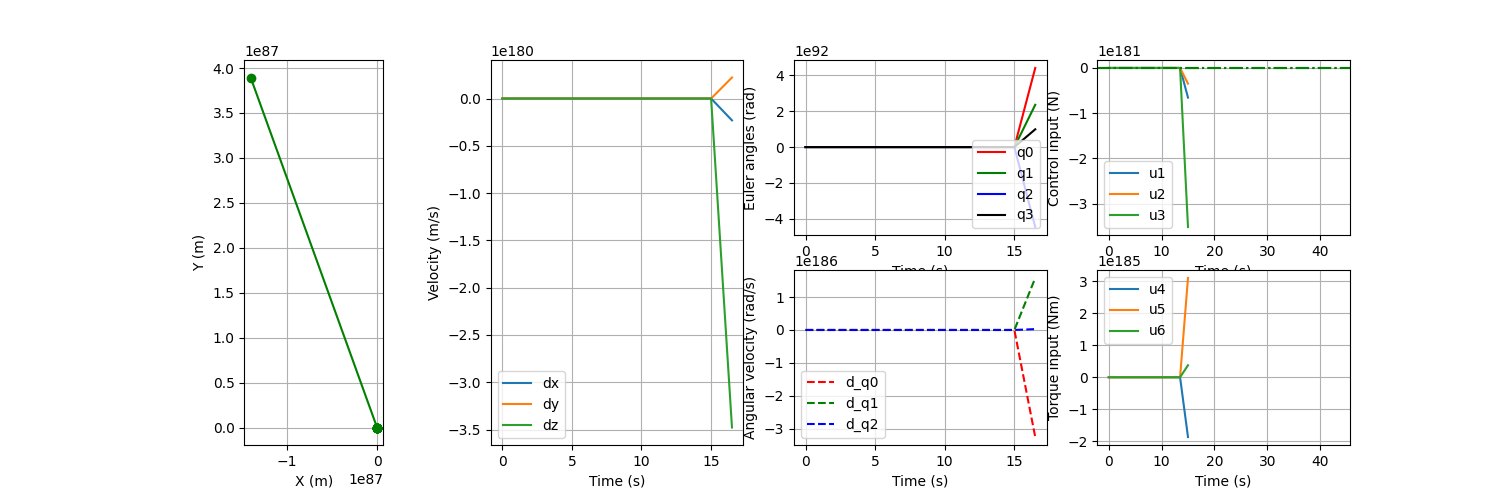
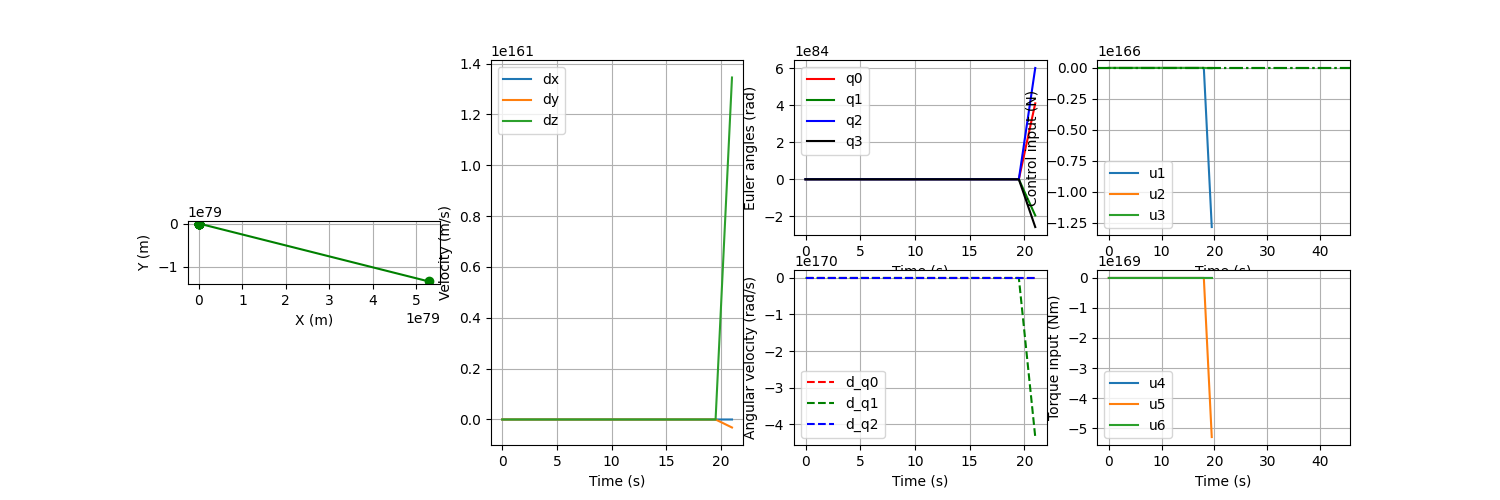
push

diff --git a/stl_mapping/Control/mpc_node.py b/stl_mapping/Control/mpc_node.py
@@ -342,13 +342,13 @@ class MPCNode(Node):
         x0 = np.array([self.vehicle_local_position[0],
                            self.vehicle_local_position[1],
                            self.vehicle_local_position[2],
-                           self.vehicle_local_velocity[0],
-                           self.vehicle_local_velocity[1],
-                           self.vehicle_local_velocity[2],
                            self.vehicle_attitude[0],
                            self.vehicle_attitude[1],
                            self.vehicle_attitude[2],
                            self.vehicle_attitude[3],
+                           self.vehicle_local_velocity[0],
+                           self.vehicle_local_velocity[1],
+                           self.vehicle_local_velocity[2],
                            self.vehicle_angular_velocity[0],
                            self.vehicle_angular_velocity[1],
                            self.vehicle_angular_velocity[2]]).reshape(13, 1)
@@ -362,13 +362,13 @@ class MPCNode(Node):
         x0 = np.array([self.vehicle_local_position[0],
                            self.vehicle_local_position[1],
                            self.vehicle_local_position[2],
-                           self.vehicle_local_velocity[0],
-                           self.vehicle_local_velocity[1],
-                           self.vehicle_local_velocity[2],
                            self.vehicle_attitude[0],
                            self.vehicle_attitude[1],
                            self.vehicle_attitude[2],
                            self.vehicle_attitude[3],
+                           self.vehicle_local_velocity[0],
+                           self.vehicle_local_velocity[1],
+                           self.vehicle_local_velocity[2],
                            self.vehicle_angular_velocity[0],
                            self.vehicle_angular_velocity[1],
                            self.vehicle_angular_velocity[2]]).reshape(13, 1)
@@ -398,15 +398,7 @@ class MPCNode(Node):
 
         x_ref_u = np.tile(u_ref if self.offset_free else np.zeros((6, 1)), (1, x_ref.shape[1]))
 
-        # x_ref contains reference in order p q dp dq, convert to order p, dp, q, dq
-        x_ref = np.concatenate((
-            x_ref[0:3, :],      # Position [ENU]
-            x_ref[7:10, :],     # Linear velocity [ENU]
-            x_ref[3:7, :],      # Quaternion [FLU in ENU]
-            x_ref[10:13, :],    # Angular velocity [FLU]
-            x_ref_u
-        ))
-        self.get_logger().info(f"euler: {quat_to_euler_np(x_ref[6:10, 0], order='zyx')}")
+        self.get_logger().info(f"euler: {quat_to_euler_np(x_ref[3:7, 0], order='zyx')}")
         self.get_logger().info(f"x_ref: {x_ref[:, 0].flatten()}")
         # self.get_logger().info(f"x0: {x0.flatten()}")
 
@@ -426,21 +418,21 @@ class MPCNode(Node):
         setpoint_path_msg = Path()
         for idx in range(x_ref.shape[1]):
             setpoint = x_ref[:, idx]
-            setpoint_pose_msg = self.vector2PoseMsg('map', setpoint[0:3], setpoint[6:10])
+            setpoint_pose_msg = self.vector2PoseMsg('map', setpoint[0:3], setpoint[3:7])
             setpoint_path_msg.header = setpoint_pose_msg.header
             setpoint_path_msg.poses.append(setpoint_pose_msg)
         self.reference_path_pub.publish(setpoint_path_msg)
 
 
         self.reference_point_pub.publish(
-            self.vector2PoseMsg('map', x_ref[0:3, 0], x_ref[6:10, 0])
+            self.vector2PoseMsg('map', x_ref[0:3, 0], x_ref[3:7, 0])
         )
 
         x_pred = x_pred.T
         predicted_path_msg = Path()
         for idx in range(x_pred.shape[1]):
             predicted_state = x_pred[:, idx]
-            predicted_pose_msg = self.vector2PoseMsg('map', predicted_state[0:3], predicted_state[6:10])
+            predicted_pose_msg = self.vector2PoseMsg('map', predicted_state[0:3], predicted_state[3:7])
             predicted_path_msg.header = predicted_pose_msg.header
             predicted_path_msg.poses.append(predicted_pose_msg)
         self.predicted_path_pub.publish(predicted_path_msg)

diff --git a/stl_mapping/Control/controllers/mpc_wrench.py b/stl_mapping/Control/controllers/mpc_wrench.py
@@ -49,8 +49,8 @@ class MpcWrench():
         self.Nu = 30                # Prediction horizon, inputs
         self.Q = np.diag([          # State weighting matrix
             1e0, 1e0, 1e0,
-            3e1, 3e1, 3e1, 
-            1e2, 
+            1e2,
+            3e1, 3e1, 3e1,  
             3e1, 3e1, 3e1])             
         self.R = 0.1*np.diag([          # State weighting matrix
             1e0, 1e0, 1e0,
@@ -60,7 +60,7 @@ class MpcWrench():
         # Bounds
         self.lbx = np.array([0+0.25, -1.58+0.25, -0.5, -0.5, -3])
         self.ubx = np.array([4.1-0.25, 1.74-0.25, 0.5, 0.5, 3])
-        self.idxbx = np.array([0, 1, 3, 4, 12]) # Indexes of states that are bounded
+        self.idxbx = np.array([0, 1, 7, 8, 12]) # Indexes of states that are bounded
 
         # Weight on slack varibles
         self.W_slack = np.array([1e4]*len(self.idxbx))
@@ -115,11 +115,11 @@ class MpcWrench():
         ocp.cost.W_e = block_diag(self.P)
 
         # quat_error = ca.fabs(model.x[6:10].T @ x_ref[6:10])
-        quat_error = (model.x[6:10].T @ x_ref[6:10])**2
+        quat_error = (model.x[3:7].T @ x_ref[3:7])**2
         # quat_error = ca.fmax(0, ca.fmin(1, quat_error))
         ocp.model.cost_y_expr = ca.vertcat(
             model.x[0:3] - x_ref[0:3],   # Position error
-            model.x[3:6] - x_ref[3:6],   # Velocity error
+            model.x[7:10] - x_ref[7:10],   # Velocity error
             quat_error,
             model.x[10:13] - x_ref[10:13],  # Angular velocity error
             model.u - u_ref, # Control error
@@ -127,14 +127,14 @@ class MpcWrench():
         # Terminal cost 
         ocp.model.cost_y_expr_e = ca.vertcat(
             model.x[0:3] - x_ref[0:3],
-            model.x[3:6] - x_ref[3:6],
+            model.x[3:7] - x_ref[3:7],
             quat_error,
             model.x[10:13] - x_ref[10:13],
         )
         ocp.cost.yref = np.zeros(ocp.model.cost_y_expr.shape[0])  # Reference for full cost function
-        ocp.cost.yref[6] = 1    # Quaternion reference
+        ocp.cost.yref[3] = 1    # Quaternion reference
         ocp.cost.yref_e = np.zeros(ocp.model.cost_y_expr_e.shape[0])  # Terminal reference
-        ocp.cost.yref_e[6] = 1  # Quaternion reference
+        ocp.cost.yref_e[3] = 1  # Quaternion reference
 
         # Constraints
         ocp.constraints.lbu = model.u_min
@@ -147,7 +147,7 @@ class MpcWrench():
         ocp.constraints.idxsbx = np.arange(len(self.idxbx)) # All states are slack variables
 
         ocp.constraints.x0 = np.zeros(nx)  # Initial state
-        ocp.constraints.x0[6] = 1  # Initial quaternion
+        ocp.constraints.x0[3] = 1  # Initial quaternion
 
         # Set up the constraints for the other agents
         # ocp.constraints.lh = np.full(0, -1e9)   # lower bounds on con_h_expr

diff --git a/stl_mapping/Planning/main.py b/stl_mapping/Planning/main.py
@@ -169,16 +169,19 @@ def u_fbl(x, u):
     Returns:
         u_fbl: control input for the space robot in ENU body frame
     '''
-    R_enu_to_ned = R.from_quat(np.array([0, 1, 0, 0]), scalar_first=True)
-    R_flu_to_frd = R.from_quat(np.array([0, 1, 0, 0]), scalar_first=True)
+    R_enu_to_ned = R.from_quat(np.array([0, 1, 0, 0]), scalar_first=True) # 180 degrees rotation around x
+    R_flu_to_frd = R.from_matrix(np.array([[0, 1, 0], [1, 0, 0], [0, 0, -1]])) # 90 degrees rotation around z
 
     #! Convert [p: ENU, q:FLU->ENU, v:ENU, w:FLU] to [p: NED, q:FRD->NED, v:FRD, w:FRD]
-    from Utilities.rotations import q_enu_to_q_ned
+    from Utilities.rotations import q_enu_to_q_ned, quat_mult
     p, q, v, w = x[:3], x[3:7], x[7:10], x[10:13]
     p_ned = np.array([p[1], p[0], -p[2]])
-    q_ned = q_enu_to_q_ned(q)
+    q_R = R.from_quat(q, scalar_first=True)
+    q_ned = R_enu_to_ned * q_R * R_flu_to_frd
+    q_ned = q_ned.as_quat(scalar_first=True)  # convert to quaternion
+    print(f"p_ned: {p_ned}, q_ned: {q_ned}")
     v_ned = np.array([v[1], v[0], -v[2]])
-    w_frd = np.array([w[1], w[0], -w[2]])
+    w_frd = np.array([w[0], -w[1], -w[2]])
     x_ned = np.concatenate((p_ned, q_ned, v_ned, w_frd))
 
     fx_sp = sp_robot_nl.calculate_fx(x)

diff --git a/stl_mapping/Control/models/atmos_wrench.py b/stl_mapping/Control/models/atmos_wrench.py
@@ -70,10 +70,10 @@ def atmos_model_wrench():
 
     # states
     p = ca.MX.sym('p', 3)
-    v = ca.MX.sym('v', 3)
     q = ca.MX.sym('q', 4)
+    v = ca.MX.sym('v', 3)
     w = ca.MX.sym('w', 3)
-    x = ca.vertcat(p, v, q, w)
+    x = ca.vertcat(p, q, v, w)
 
     # controls
     u = ca.MX.sym('u', 6)
@@ -99,11 +99,11 @@ def atmos_model_wrench():
     T = ca.vertcat(u[3], u[4], u[5])
 
     pdot = v
-    vdot = mass_inv * ca.mtimes(rotMat, F) + fd * mass_inv
     qdot = quat_derivative(q, w)
+    vdot = mass_inv * ca.mtimes(rotMat, F) + fd * mass_inv
     wdot = ca.mtimes(inertia_inv, (T + td - ca.mtimes(w_cross, ca.mtimes(inertia, w))))
 
-    xdot = ca.vertcat(pdot, vdot, qdot, wdot)
+    xdot = ca.vertcat(pdot, qdot, vdot, wdot)
 
     # Assign dynamics and controls
     model.f_expl_expr = xdot

diff --git a/stl_mapping/Control/estimators/ekf_wrench_estimator.py b/stl_mapping/Control/estimators/ekf_wrench_estimator.py
@@ -72,9 +72,9 @@ class EKFWrenchEstimator:
         self.P = (np.eye(12) - K @ H) @ self.P
 
     def step(self, x_meas, F_cmd, T_cmd):
-        v_meas = x_meas[3:6]
+        q_meas = x_meas[3:7]
+        v_meas = x_meas[7:10]
         w_meas = x_meas[10:13]
-        q_meas = x_meas[6:10]
 
         self.predict(q_meas, F_cmd, T_cmd)
         self.update(v_meas, w_meas)
